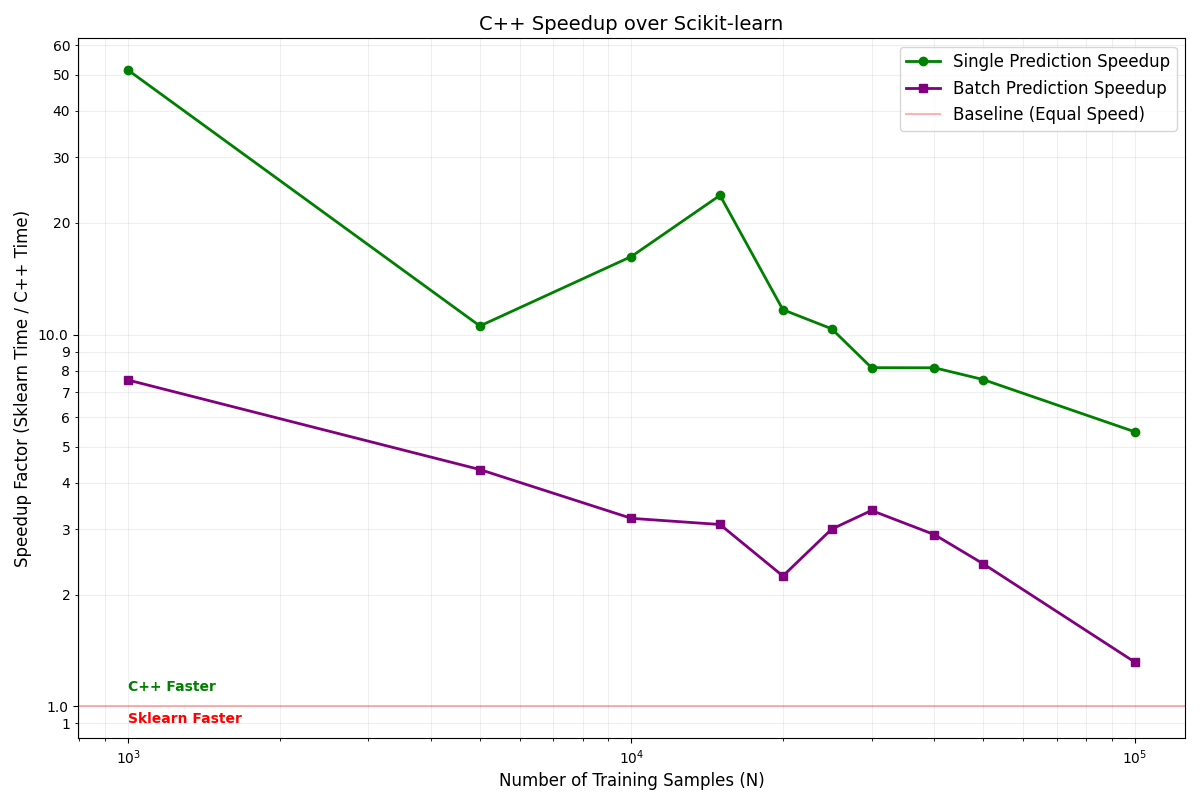
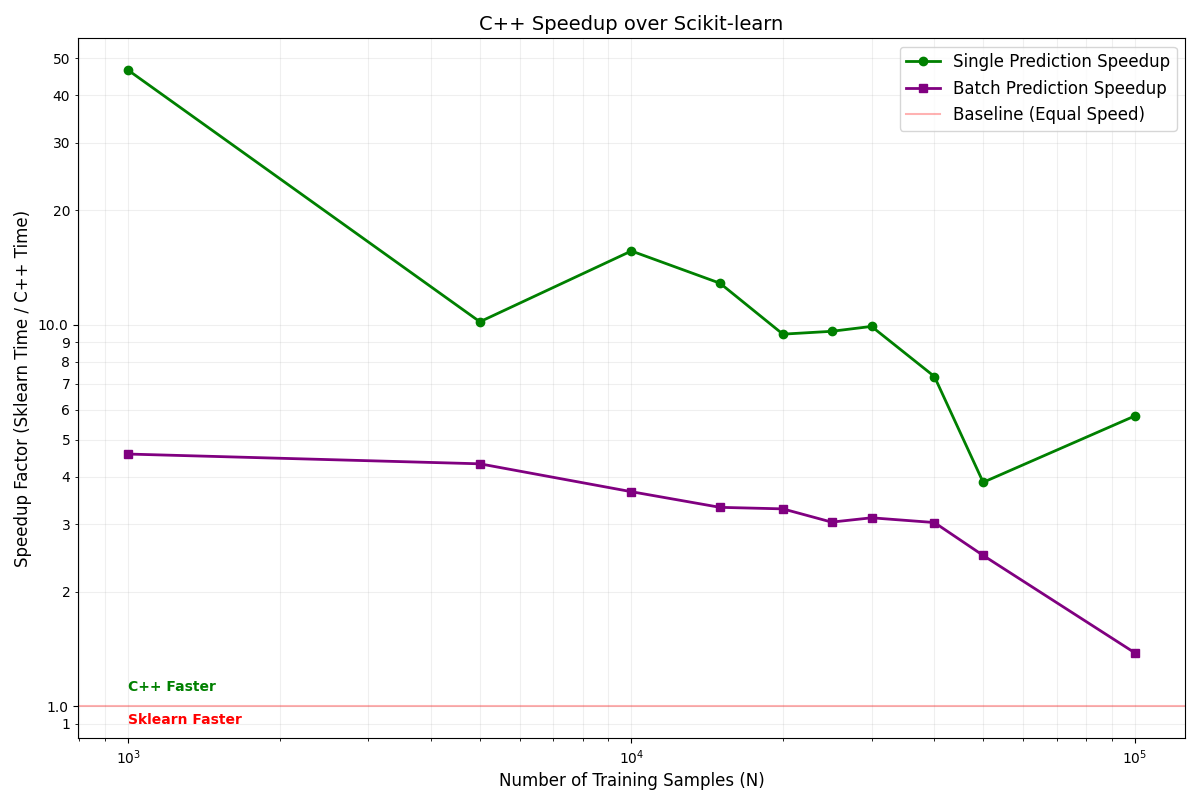
2025-11-24 03:38:05

diff --git a/KNN/README.md b/KNN/README.md
@@ -22,16 +22,16 @@ The following table shows the performance comparison.
 
 | N (Samples) | k | Agreement (%) | Single Speedup (x) | Batch Speedup (x) |
 |:---|:---|:---|:---|:---|
-| 1000 | 5 | 100.00 | 51.45 | 7.55 |
-| 5000 | 5 | 99.90 | 10.55 | 4.34 |
-| 10000 | 10 | 100.00 | 16.23 | 3.21 |
-| 15000 | 10 | 99.97 | 23.70 | 3.09 |
-| 20000 | 10 | 99.98 | 11.67 | 2.24 |
-| 25000 | 10 | 99.98 | 10.37 | 3.00 |
-| 30000 | 10 | 99.98 | 8.15 | 3.37 |
-| 40000 | 10 | 99.99 | 8.15 | 2.90 |
-| 50000 | 10 | 99.97 | 7.57 | 2.42 |
-| 100000 | 10 | 99.98 | 5.48 | 1.32 |
+| 1000 | 5 | 99.50 | 46.51 | 4.59 |
+| 5000 | 5 | 100.00 | 10.19 | 4.32 |
+| 10000 | 10 | 100.00 | 15.62 | 3.65 |
+| 15000 | 10 | 100.00 | 12.86 | 3.33 |
+| 20000 | 10 | 100.00 | 9.46 | 3.29 |
+| 25000 | 10 | 99.98 | 9.62 | 3.04 |
+| 30000 | 10 | 99.95 | 9.91 | 3.12 |
+| 40000 | 10 | 99.98 | 7.32 | 3.03 |
+| 50000 | 10 | 99.98 | 3.87 | 2.49 |
+| 100000 | 10 | 99.98 | 5.77 | 1.38 |
 
 ## Performance Graph
 
